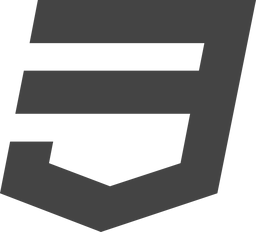
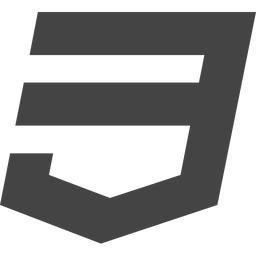
fix images & gif

diff --git a/src/html/readme.md b/src/html/readme.md
@@ -1,6 +1,6 @@
 <p align="center">
     <br>
-    <img src="https://cdn.jsdelivr.net/npm/@programming-languages-logos/html@0.0.0/html_256x256.png" alt="programming Languages Logo">
+    <img src="https://cdn.jsdelivr.net/npm/@programming-languages-logos/html@0.0.1/html_256x256.png" alt="programming Languages Logo">
     <br>
     <br>
     <img src="https://cdn.abranhe.com/projects/porgramming-languages-logos/logo.svg" alt="programming gif">

diff --git a/src/css/readme.md b/src/css/readme.md
@@ -1,6 +1,6 @@
 <p align="center">
     <br>
-    <img src="https://cdn.jsdelivr.net/npm/@programming-languages-logos/css@0.0.0/css_256x256.png" alt="programming Languages Logo">
+    <img src="https://cdn.jsdelivr.net/npm/@programming-languages-logos/css@0.0.1/css_256x256.png" alt="programming Languages Logo">
     <br>
     <br>
     <img src="https://cdn.abranhe.com/projects/porgramming-languages-logos/logo.svg" alt="programming gif">
